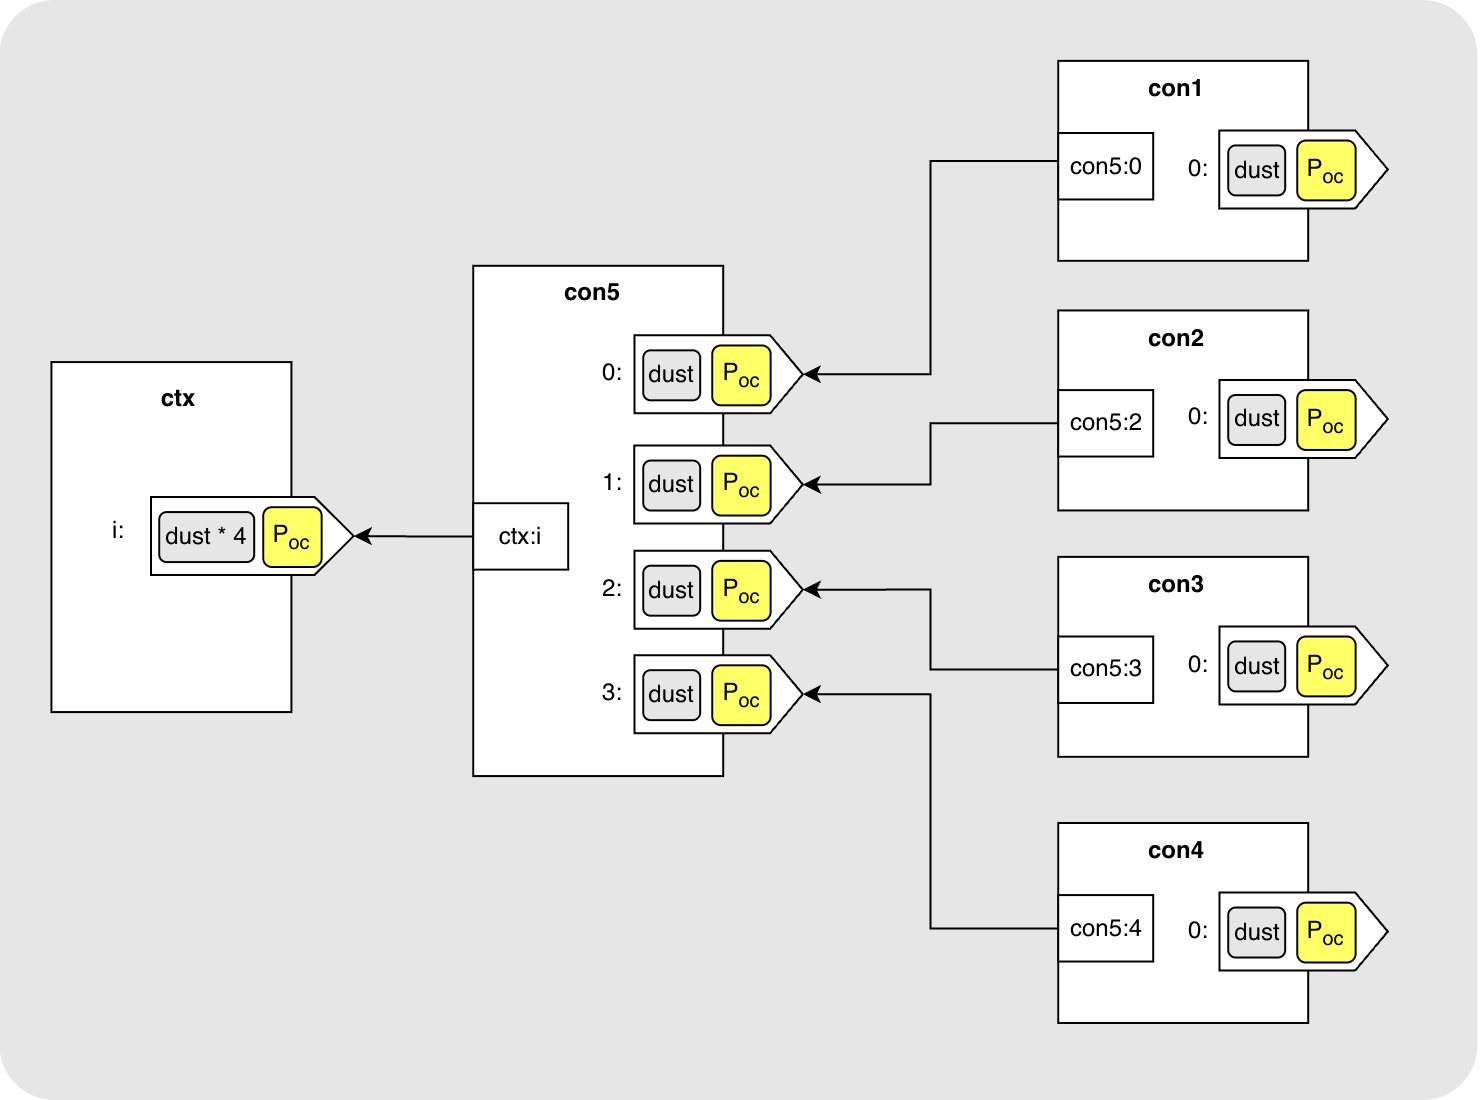
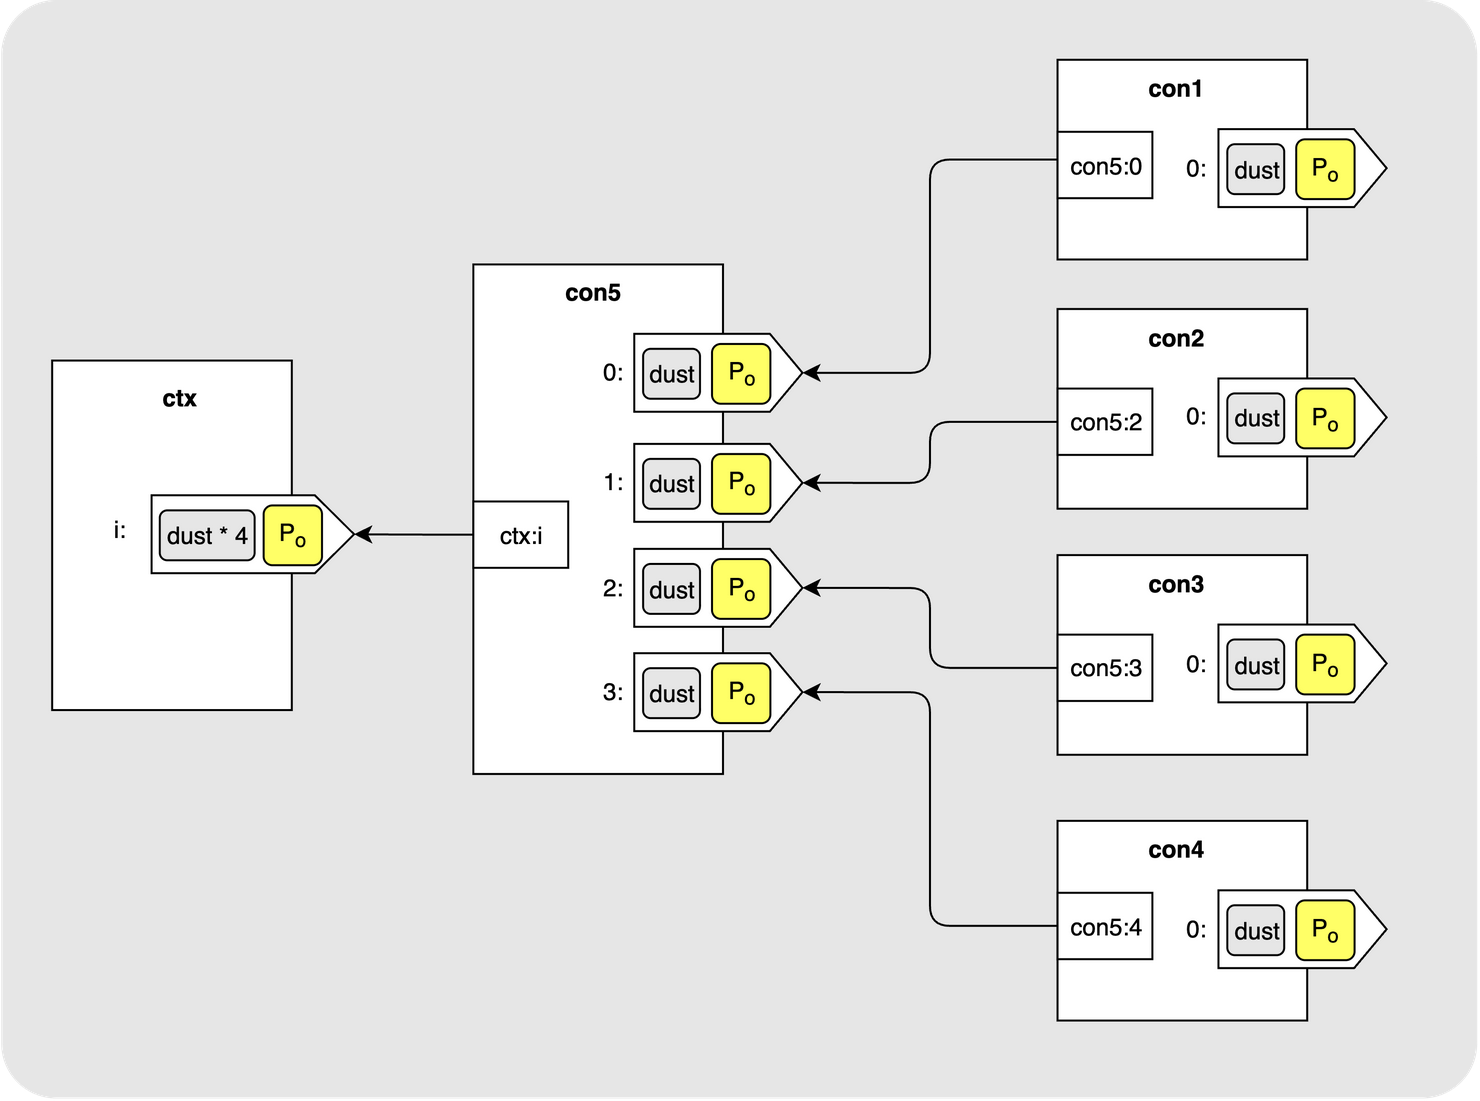
content: add leave requests, dust detail and a cover image
Renames the operator connector key from P_oc to P_o across the diagrams and
uses a subscript in the prose to match. Adds a backing frame to the connector
unroll diagram, rounds the connector tree connectors and curves the forfeit
transaction arrows.

Aligns the generated diagrams on the same connector yellow as the hand-drawn
ones, adds a text-free cover derived from the operator-claims diagram, and
formats transaction and output identifiers as code spans.

New prose explains the dust amounts in the connector tree and closes the
article with a Leave Requests section, which the title promised but which was
previously only implied by the batch swap walkthrough.

diff --git a/content/posts/ark-part-1.md b/content/posts/ark-part-1.md
@@ -5,6 +5,9 @@ date: 2026-08-18
 ShowToc: true
 aliases:
   - /ark-part-1
+
+cover:
+    image: "/ark/cover.png"
 ---
 
 <!--
@@ -162,12 +165,21 @@ older batches: the chances of every VTXO in one tree being refreshed at the same
 time are slim, and nothing about the protocol requires it.
 
 Zooming in on the tree itself: every output in it is a plain dust output paying to
-the operator's connector key, P_oc. That is the whole script. There is no sweep
+the operator's key, <code>P<sub>o</sub></code>. That is the whole script. There is no sweep
 path and no timelock, because there is nothing here to protect against. The
 operator owns every output in this tree, from the root all the way down to the
 leaves, so there is nobody to race and nothing to reclaim.
 
 ![](/ark/connector-tree.png#center)
+
+The amounts are worth a word too. A connector carries no real value. Its only job
+is to be the second input of a forfeit transaction so that the forfeit is
+worthless until the batch transaction is on-chain. So each leaf is a dust output,
+the smallest amount the network will relay. Every node above the leaves then has
+to carry enough to fund all the connectors underneath it, which is why the parent
+of four connectors holds four times dust. The operator funds all of this out of
+the batch transaction, so a connector tree costs it a small, fixed amount per
+forfeit.
 
 Notice too that the connector tree does not have to use the same radix as the
 VTXT. The two trees are built for different reasons and sized by different things,
@@ -176,14 +188,14 @@ processing in this batch.
 
 Unrolling a connector works just like unrolling a VTXO. If the operator ever needs
 a particular connector on-chain, it broadcasts the chain of transactions running
-from the commitment transaction down to the leaf it wants: ctx, then con1, then
-con5.
+from the commitment transaction down to the leaf it wants: `ctx`, then `con1`,
+then `con5`.
 
 ![](/ark/connector-unrolled.png#center)
 
 Which brings us back to the forfeit transaction, and now we can look at it
-properly. It has two inputs: vtx_a:0, the VTXO being given up, spent via its
-collaborative path, and con1:0, the connector leaf. Its single output pays the
+properly. It has two inputs: `vtx_a:0`, the VTXO being given up, spent via its
+collaborative path, and `con1:0`, the connector leaf. Its single output pays the
 value of the old VTXO across to the operator.
 
 ![](/ark/forfeit-tx-structure.png#center)
@@ -191,3 +203,19 @@ value of the old VTXO across to the operator.
 
 [litepaper]: https://docs.arklabs.xyz/ark.pdf
 [arkade]: https://github.com/lightninglabs/ark
+
+## Leave Requests
+
+Everything above used a batch swap as the example, but a leave request works in
+exactly the same way. The only thing that changes is what the operator puts in the
+new batch transaction for you.
+
+In a batch swap you are given a fresh VTXO as a leaf of the new VTXT. In a leave
+request you are given a plain output on the batch transaction itself, paying you
+on-chain, and there is no restriction on the script you ask it to pay to.
+
+Everything else is untouched. You still forfeit your old VTXO, the forfeit
+transaction still spends that VTXO together with a connector leaf from the new
+batch transaction, and the same atomicity holds: if the batch transaction
+confirms then your coins are on-chain and the operator can claim the old VTXO,
+and if it never confirms then your old VTXO is still yours.
